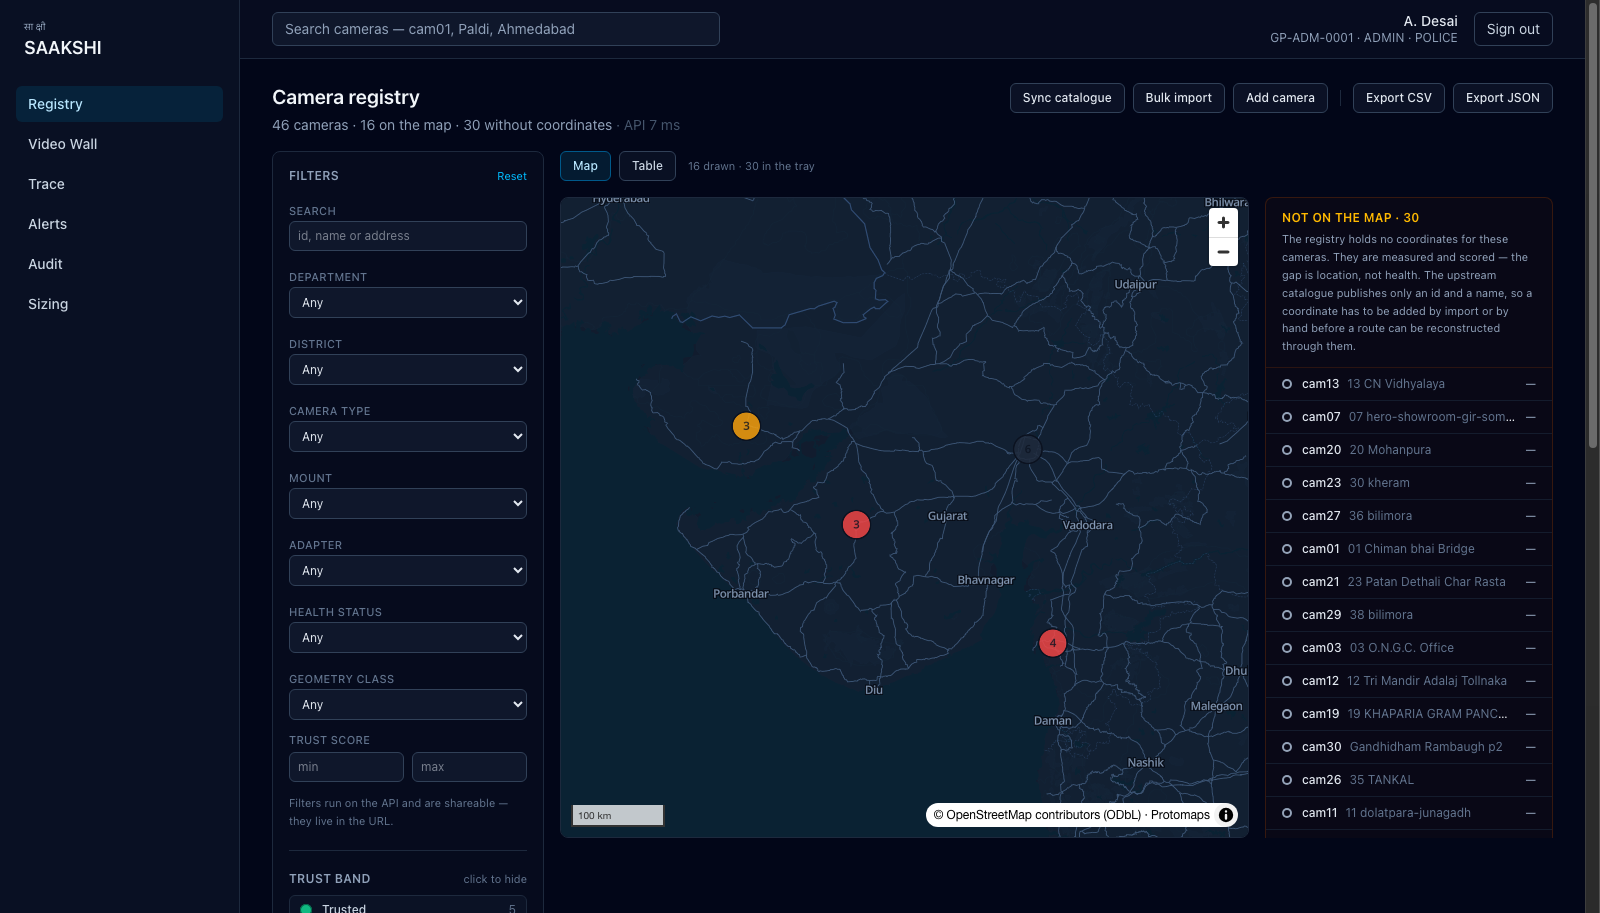
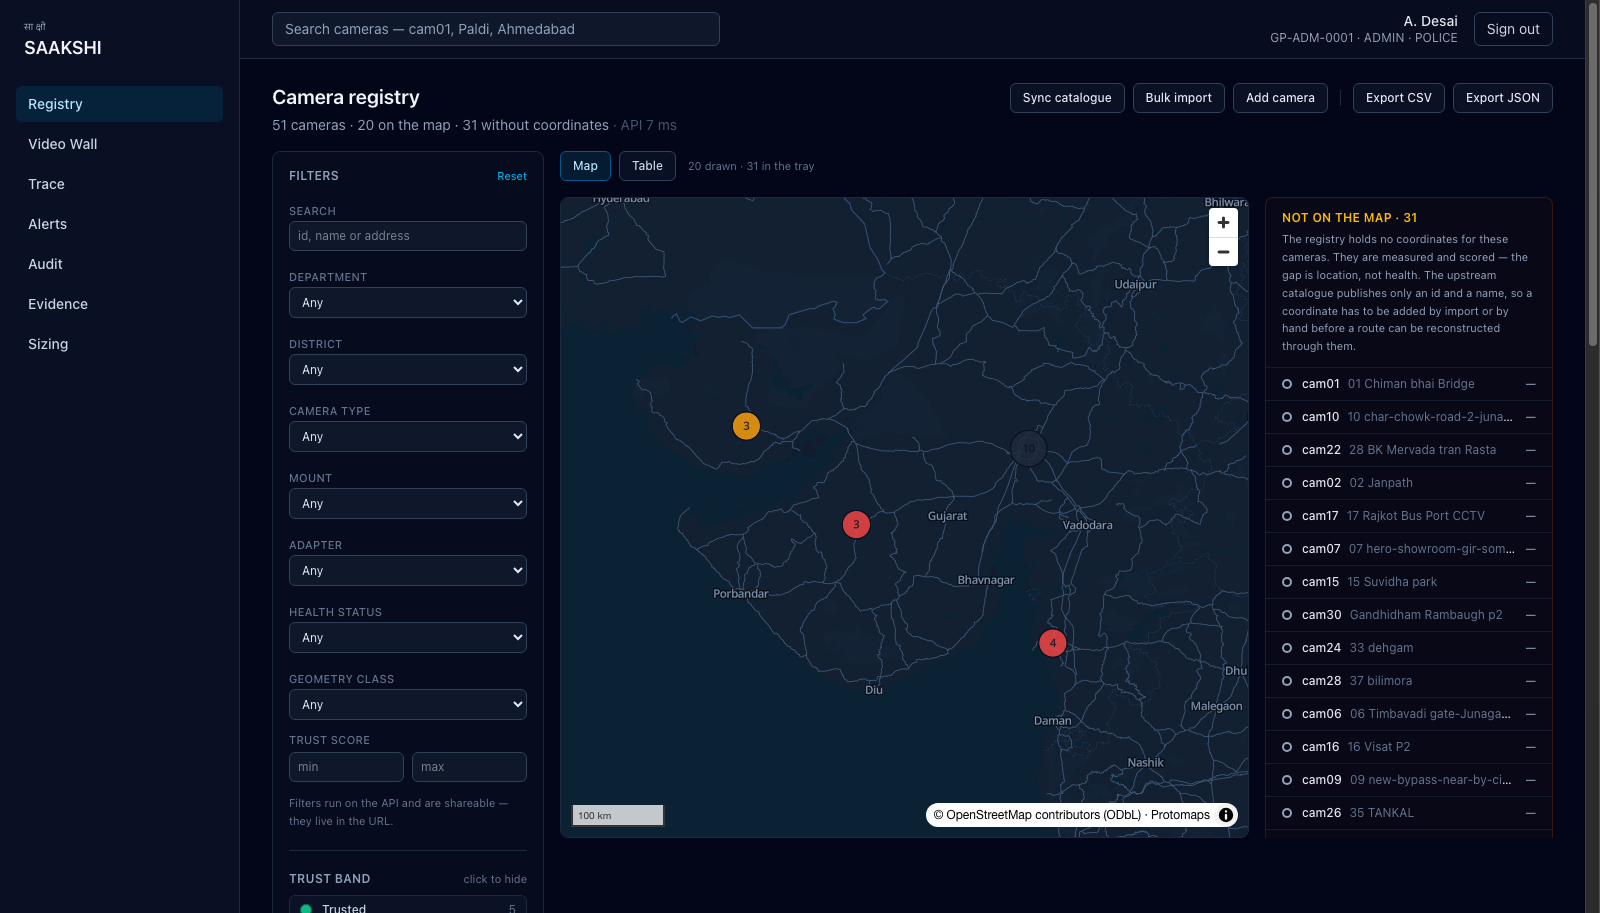
D3-13 · The GIS map never renders — Model 1's compulsory deliverable is blank (#83)
* fix(web): give next build its own output directory (D3-13)

next dev and next build shared packages/web/.next. A production build writes a
clean output into it and deletes the running dev server's chunk graph; the dev
server keeps serving HTML that points at its now-deleted chunks, and every one
404s. next/dynamic swallows the rejected import, so the GIS map sat on
"Loading map..." forever with nothing logged anywhere, while the server-rendered
shell still painted around it — which read as a broken map rather than a dead
client bundle. Hydration never ran at all.

Two properties made it look like a dependency fault: npm ci cannot fix it (the
damage is in the build output, not node_modules), and restarting the dev server
cannot either (next dev reuses the poisoned directory). Only rm -rf .next
recovered, so whichever server compiled last worked and the other was broken.

next build/next start now write .next-prod, next dev writes .next. Anything that
copies build output must copy .next-prod.

* fix(verify): count unscored pins as real + fixture, not fixtures alone (D3-13)

The unscored assertion compared the whole map against UNSCORED_COUNT, which was
right when D2-09 wrote it: the catalogue published no coordinates, so no real
camera reached the map and every unscored pin on it was a fixture. The estate
has placed cameras now — 4 of them, all unscored — so the check expected 3 and
found 7, and failed on every run for a reason that has nothing to do with the
map.
[…]

diff --git a/packages/web/src/lib/dist-dir.ts b/packages/web/src/lib/dist-dir.ts
@@ -1,0 +1,59 @@
+/**
+ * Where Next writes its build output — and why dev and production must never share it.
+ *
+ * ## The bug this exists to prevent (D3-13)
+ *
+ * `npm start` runs `next dev`, which serves compiled assets out of its output directory. A
+ * production build writes a *clean* output into the same place, deleting the running dev server's
+ * chunk graph. The dev server does not notice: it keeps serving HTML that references its own,
+ * now-deleted chunk URLs, and every one of them 404s.
+ *
+ * The failure is silent in the worst possible way. `next/dynamic` swallows the rejected chunk
+ * import, so a lazily-loaded component sits on its `loading` placeholder forever with **no error in
+ * the console, no failed fetch the page reports, and no server-side complaint**. The server-rendered
+ * HTML still paints the shell around it, so it reads as "one panel is broken" rather than "the
+ * client bundle is dead" — hydration never ran at all.
+ *
+ * That is exactly how the GIS map — Model 1's compulsory deliverable — was blank for a day. It cost
+ * a full ticket of investigation aimed at the dependency tree, a CSP and MapLibre's blob worker,
+ * because two things hid the real cause:
+ *
+ *   - **`npm ci` cannot fix it.** The damage is in the build output, not in `node_modules`.
+ *   - **Restarting the dev server cannot fix it either.** `next dev` reuses the poisoned directory;
+ *     only deleting it recovers. So whichever server compiled last worked and the other was broken,
+ *     which made the fault look like it reproduced in dev *and* production at once.
+ *
+ * The trap is laid by the project's own instructions: the D3-13 validation gate and
+ * `docs/basemap-setup.md` both say to run `npm run build -w @saakshi/web`, and `npm start` leaves a
+ * dev server running while you do it.
+ *
+ * ## The fix
+ *
+ * Two directories, chosen by the mode Next is already running in. `next dev` gets `.next`;
+ * `next build` and `next start` get `.next-prod`. Both production commands resolve the same value
+ * from this one function, so a build and the server that serves it always agree, and neither can
+ * reach the other's files.
+ *
+ * `NEXT_DIST_DIR` overrides both, for a deployment that needs to place the output somewhere
+ * specific. Anything copying build output (a Dockerfile, a Railway deploy — D4-01) must copy
+ * **`.next-prod`**, not `.next`.
+ */
+
+/** The dev server's directory. Written by `next dev`, and by nothing else. */
+export const DEV_DIST_DIR = '.next';
+
+/** The production directory. Written by `next build`, read by `next start`. */
+export const PROD_DIST_DIR = '.next-prod';
+
+/**
+ * The output directory for the mode Next is running in.
+ *
+ * Next sets `NODE_ENV` itself before it loads the config — `development` for `next dev`,
+ * `production` for `next build` and `next start` — so the mode is already decided by the time this
+ * is called and does not need to be passed in separately.
+ */
+export function distDirFor(env: Readonly<Record<string, string | undefined>>): string {
+  const override = env['NEXT_DIST_DIR'];
+  if (override !== undefined && override !== '') return override;
+  return env['NODE_ENV'] === 'development' ? DEV_DIST_DIR : PROD_DIST_DIR;
+}

diff --git a/packages/web/src/lib/dist-dir.test.ts b/packages/web/src/lib/dist-dir.test.ts
@@ -1,0 +1,46 @@
+import { describe, expect, it } from 'vitest';
+import { DEV_DIST_DIR, PROD_DIST_DIR, distDirFor } from './dist-dir';
+
+/**
+ * The invariant these tests protect is one line long and cost a day: a production build must not be
+ * able to write into the directory a running `next dev` is serving from. See `dist-dir.ts` for the
+ * failure mode — a lazily-loaded component stuck on its placeholder forever, with nothing logged
+ * anywhere.
+ *
+ * The assertion that matters is the last one. The specific directory names are an implementation
+ * detail and may change; "they are not the same directory" is the property.
+ */
+describe('distDirFor', () => {
+  it('gives the dev server its own directory', () => {
+    expect(distDirFor({ NODE_ENV: 'development' })).toBe(DEV_DIST_DIR);
+  });
+
+  it('gives a production build a different one', () => {
+    expect(distDirFor({ NODE_ENV: 'production' })).toBe(PROD_DIST_DIR);
+  });
+
+  it('resolves `next build` and `next start` to the same directory, or the server serves nothing', () => {
+    // Both commands run with NODE_ENV=production and read this one function, so agreement is
+    // structural rather than a convention someone has to remember.
+    expect(distDirFor({ NODE_ENV: 'production' })).toBe(distDirFor({ NODE_ENV: 'production' }));
+  });
+
+  it('treats an unset NODE_ENV as production rather than colliding with dev', () => {
+    // A tool that forgets to set NODE_ENV must not be handed the dev server's directory: the whole
+    // point is that only `next dev` ever writes there.
+    expect(distDirFor({})).toBe(PROD_DIST_DIR);
+  });
+
+  it('lets a deployment override the location', () => {
+    expect(distDirFor({ NODE_ENV: 'production', NEXT_DIST_DIR: 'build/out' })).toBe('build/out');
+    expect(distDirFor({ NODE_ENV: 'development', NEXT_DIST_DIR: 'build/out' })).toBe('build/out');
+  });
+
+  it('ignores an empty override instead of writing to the repo root', () => {
+    expect(distDirFor({ NODE_ENV: 'production', NEXT_DIST_DIR: '' })).toBe(PROD_DIST_DIR);
+  });
+
+  it('never lets a production build write where the dev server is serving from', () => {
+    expect(distDirFor({ NODE_ENV: 'production' })).not.toBe(distDirFor({ NODE_ENV: 'development' }));
+  });
+});

diff --git a/packages/web/next.config.ts b/packages/web/next.config.ts
@@ -1,10 +1,17 @@
 import type { NextConfig } from 'next';
+import { distDirFor } from './src/lib/dist-dir';
 
 const config: NextConfig = {
   reactStrictMode: true,
   // The workspace package ships TypeScript sources compiled to dist/; transpiling keeps the web
   // build working before `@saakshi/shared` is built.
   transpilePackages: ['@saakshi/shared'],
+  // `next dev` and `next build` get separate output directories, because sharing one lets a
+  // production build delete a running dev server's chunks — which presents as a lazily-loaded
+  // component stuck on its placeholder forever, with no error anywhere. See `src/lib/dist-dir.ts`
+  // for the full failure mode; D3-13 lost a day to it. Anything that copies build output must copy
+  // `.next-prod`.
+  distDir: distDirFor(process.env),
   eslint: {
     // Linting is a root-level concern (`npm run lint`), not a per-build one.
     ignoreDuringBuilds: true,

diff --git a/docs/basemap-setup.md b/docs/basemap-setup.md
@@ -144,6 +144,44 @@ DATABASE_URL=… node scripts/verify-map.mjs    /tmp/token http://localhost:3100
 node scripts/verify-drawer.mjs                /tmp/token http://localhost:3100 http://localhost:4000  # the full trust breakdown
 ```
 
+### Two ways to make the map look permanently broken when it is not (D3-13)
+
+Both of these cost a full ticket. Neither produces a single error message anywhere, which is what
+makes them worth the space.
+
+**1 · Never run `next build` while `npm start`'s dev server is up — and if the map is blank, suspect
+this first.** `next dev` and `next build` used to share `packages/web/.next`. A production build
+writes a *clean* output into it and deletes the running dev server's chunk graph; the dev server
+keeps serving HTML that points at its now-deleted chunks, and every one 404s. `next/dynamic` swallows
+the rejected import, so the map sits on `Loading map…` **forever with nothing logged** — and the
+server-rendered shell still paints around it, so it reads as "the map broke" rather than "the client
+bundle is dead". Hydration never ran at all: the whole page is inert.
+
+It is now structurally impossible — `next build`/`next start` write `.next-prod`, `next dev` writes
+`.next` (see `packages/web/src/lib/dist-dir.ts`). Two things about the old failure are worth
+remembering anyway, because they are what made it look like a dependency problem:
+
+- **`npm ci` cannot fix it.** The damage is in the build output, not in `node_modules`.
+- **Restarting the dev server cannot fix it either.** `next dev` reuses the poisoned directory. Only
+  `rm -rf .next` recovered, so whichever server compiled last worked and the other was broken —
+  which is why it appeared to reproduce in dev *and* production at the same time.
+
+Anything that copies build output — a Dockerfile, a Railway deploy — must copy **`.next-prod`**.
+
+**2 · Never verify the map through a background browser tab.** Chrome **suspends
+`requestAnimationFrame` entirely** in a tab whose `visibilityState` is `hidden`, and clamps
+`setTimeout` to roughly 1 Hz. Measured on a hidden tab over 18.4 s: **0 rAF callbacks** where ~1,100
+were due, and 18 timer callbacks where ~368 were due.
+
+MapLibre drives its whole load and render pipeline from rAF, so in a hidden tab the map constructs
+and then does nothing: `styleLoaded` stays false, no `styledata`, no `dataloading`, no `sourcedata`,
+no `error`, no tiles — and `__saakshiMapErrors` stays empty. It is indistinguishable from a genuinely
+broken map in a screenshot, and it is *not* a bug. A minimised, occluded, or automation-driven window
+counts as hidden, and so does a devtools-driven tab that is not the foreground one.
+
+This is why the scripts below launch their own Chrome with an explicit `--window-size` rather than
+attaching to a browser you already have open. Drive the map with `cdp.mjs`, not by hand.
+
 `verify-map.mjs` **seeds its own placed cameras** (D2-09). The Sentinel catalogue publishes no
 coordinates, so without them four of its checks — clustering, street-zoom pins, the filter, and
 filter restoration from the URL — have nothing to assert against and fail on every run. It inserts
